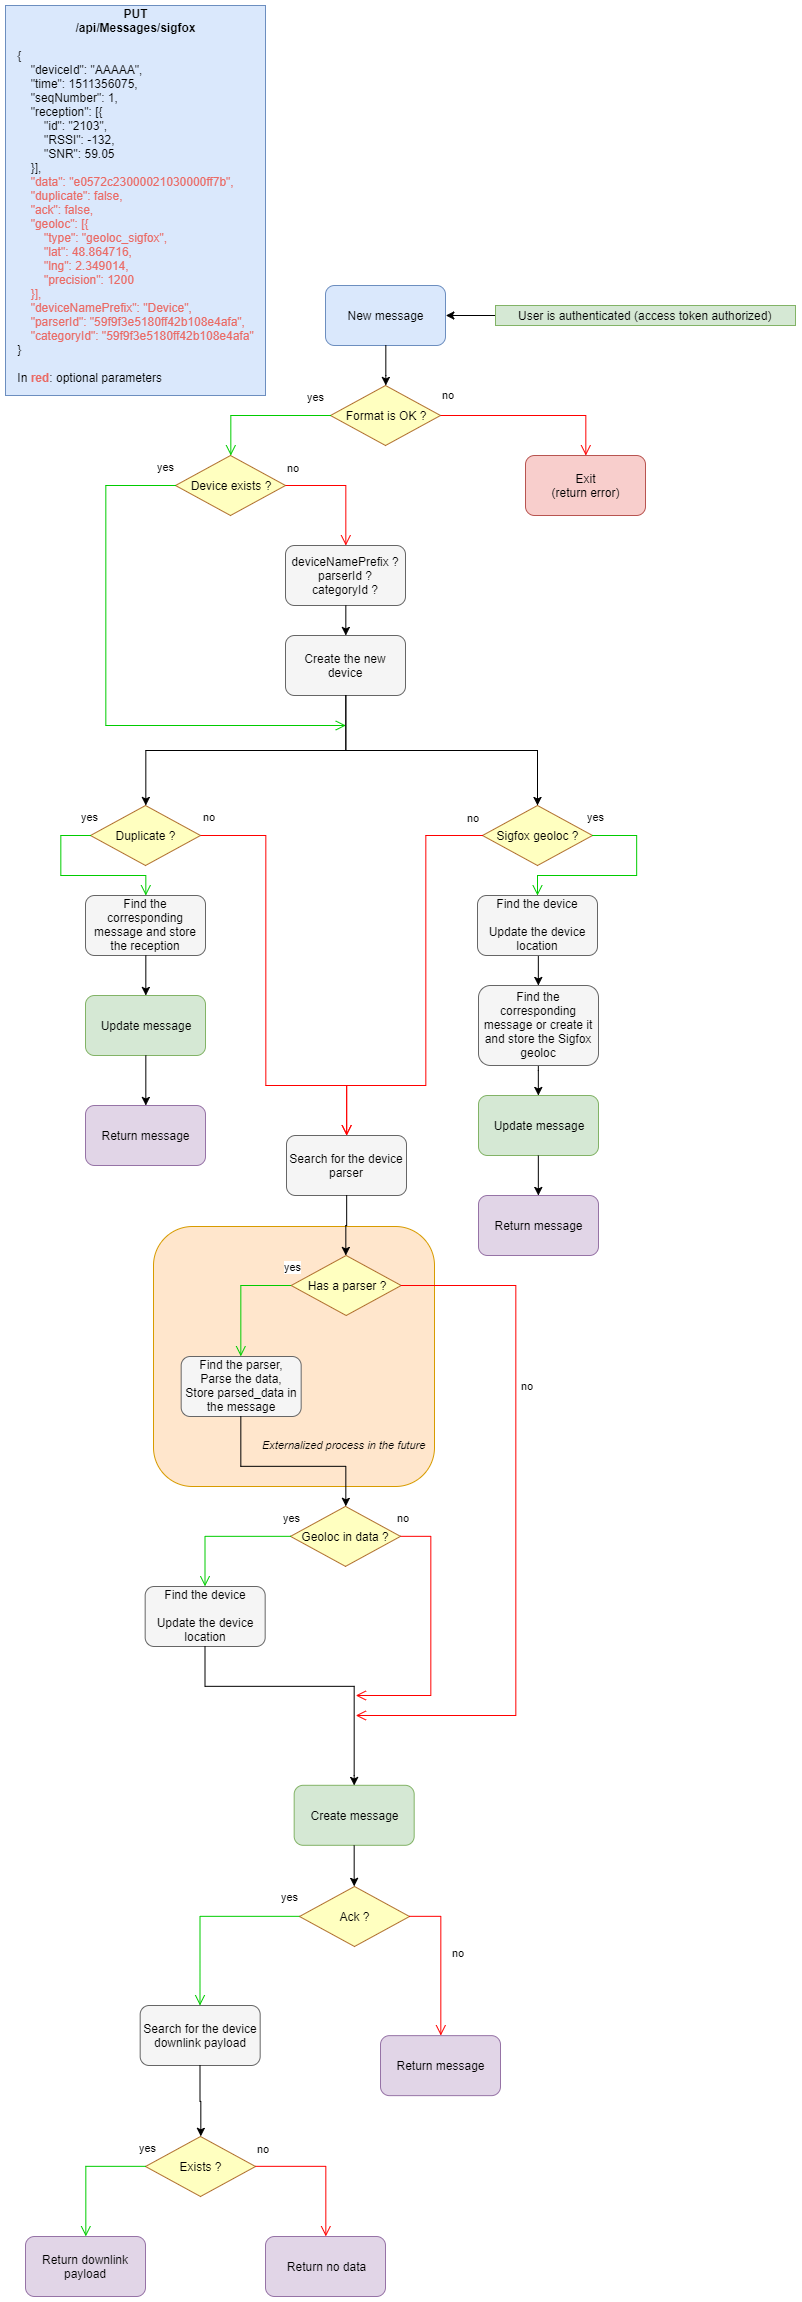
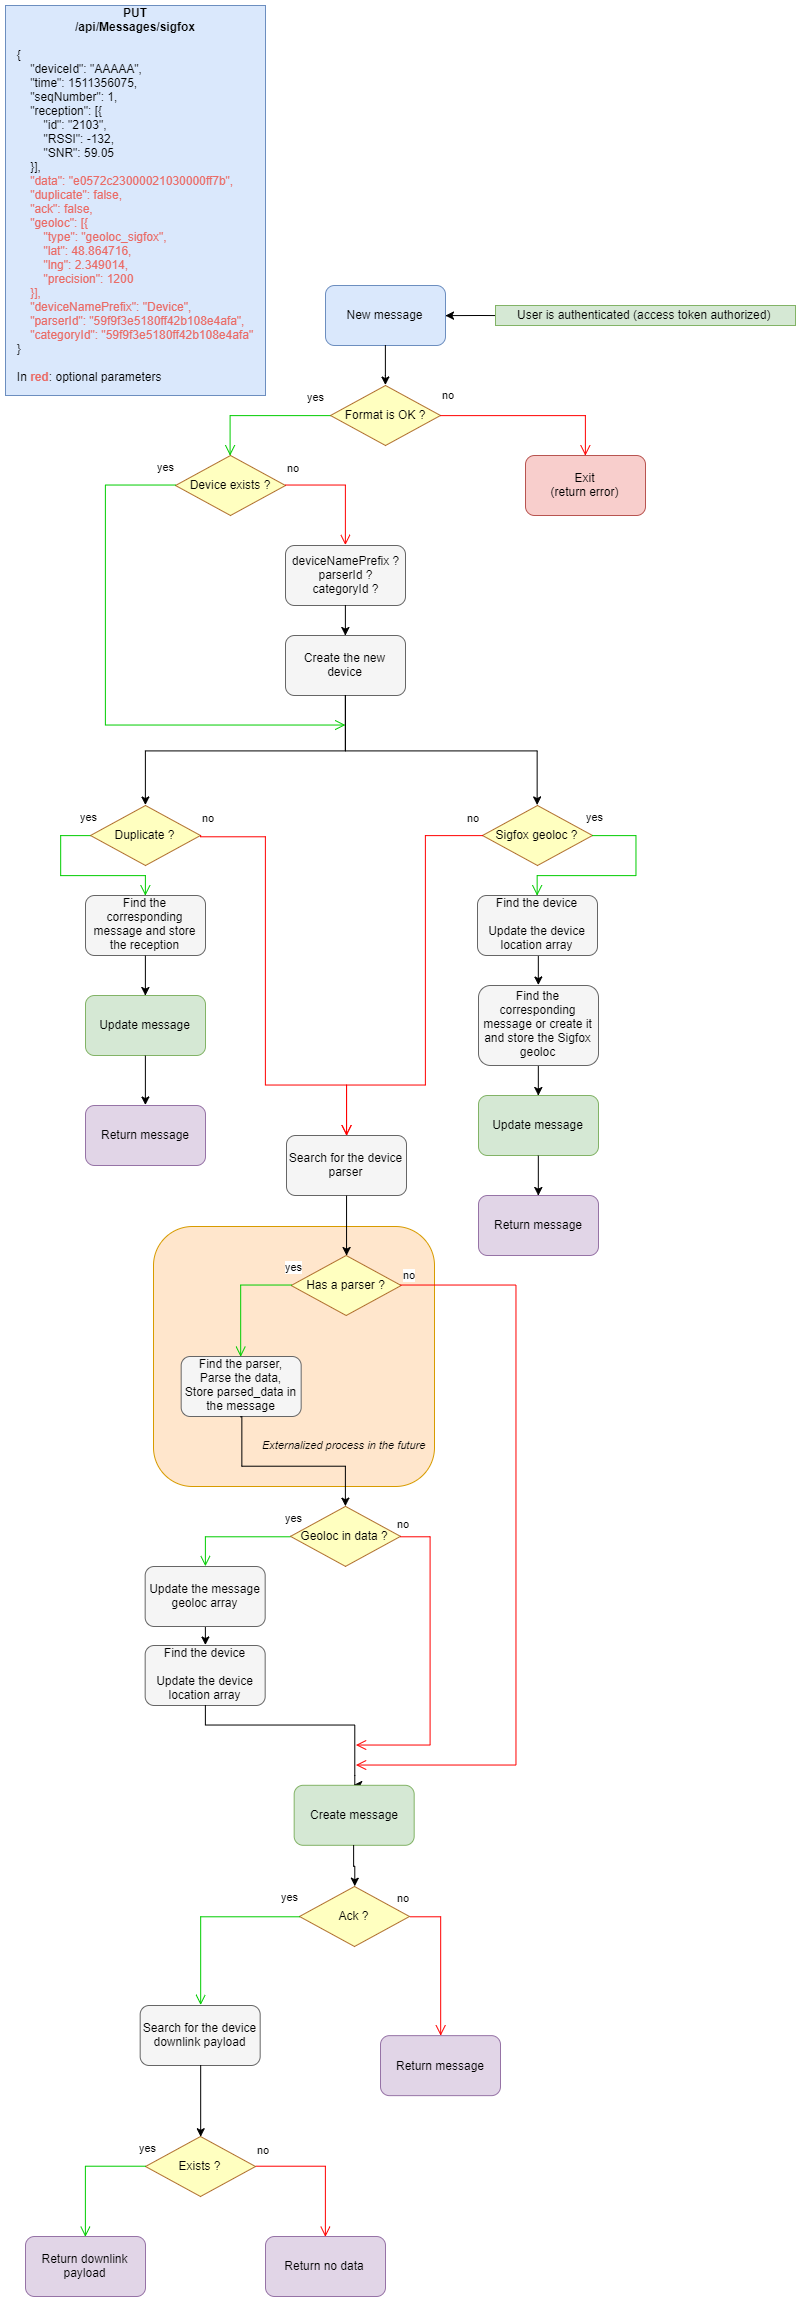
[Fix] - Store geoloc in the message before save

diff --git a/api/common/models/message.ts b/api/common/models/message.ts
@@ -227,7 +227,6 @@ class Message {
                       if (o.key === 'geoloc') {
                         geoloc.type = o.value;
                         parsed_dataHasGeoloc = true
-                        console.log('There is geoloc in the parsed data.');
                       }
                       else if (o.key === 'lat')
                         geoloc.lat = o.value;
@@ -239,8 +238,12 @@ class Message {
 
 
                     if (parsed_dataHasGeoloc) {
+                      console.log('There is geoloc in the parsed data, storing it in message.');
+                      if (!message.geoloc)
+                        message.geoloc = [];
+                      message.geoloc.push(geoloc);
                       // Update the device location geoloc array
-                      let device = {
+                      const device = {
                         id: data.deviceId,
                         userId: userId,
                         location: [geoloc]
